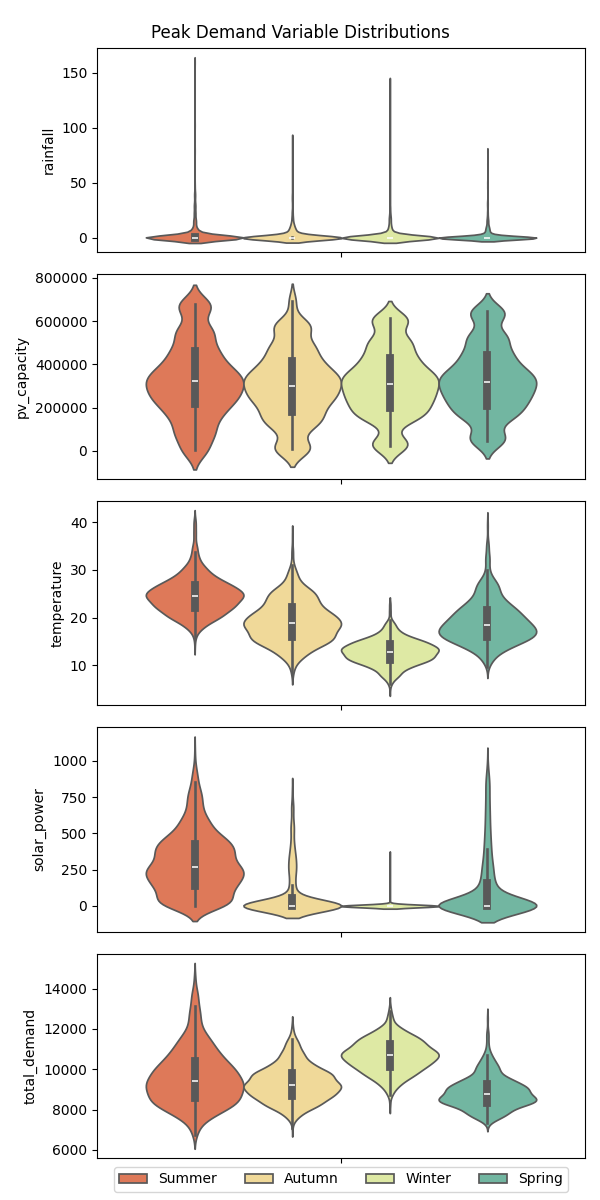
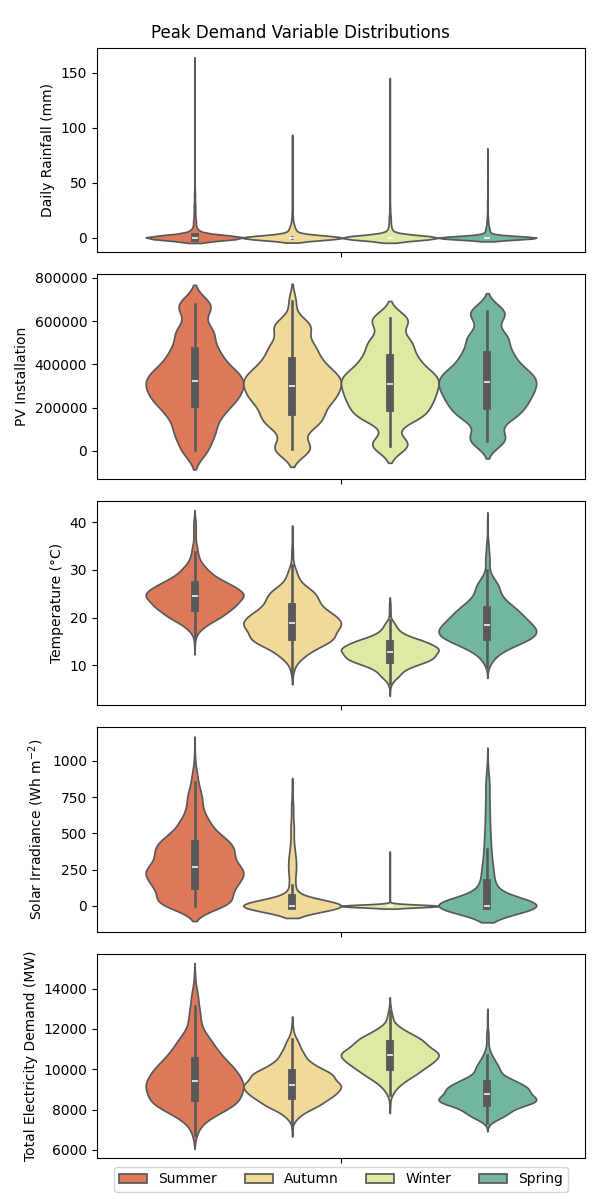
fixed fig axes on remaining plots

diff --git a/python/eda.py b/python/eda.py
@@ -12,7 +12,7 @@ def scatterplot_matrix(df, img_folder, img_name, colour):
     """
     scatterplot matrix of all numerical variables in dataframe
     """
-    var_labels = ['Rainfall', 'PV Installation', 'Temperature', 'Solar Irradiance', 'Total Power']
+    var_labels = ['Rainfall', 'PV Installation', 'Temperature', 'Solar Irradiance', 'Electricity Demand']
     p = sns.pairplot(df, plot_kws={'alpha': 0.6, 's': 10}, hue='season', palette='Spectral')
     p.x_vars = var_labels
     p.y_vars = var_labels
@@ -26,7 +26,7 @@ def corr_matrix (df, peak_df, img_folder):
     """
     correlation matrix of all numerical variables in dataframe
     """
-    var_labels = ['Rainfall', 'PV Installation', 'Temperature', 'Solar Irradiance', 'Total Power']
+    var_labels = ['Rainfall', 'PV Installation', 'Temperature', 'Solar Irradiance', 'Electricity Demand']
     # correlation matrices split by season
     fig, axs = plt.subplots(2, 2, figsize=(12,12))
     for i in range(4):
@@ -93,6 +93,7 @@ def var_distributions(df, peak_df, img_folder):
         sns.violinplot(peak_df, y=col, ax=axs[col_idx], color=vc['all'], hue='season', palette='Spectral')
         if col_idx != 4:
             axs[col_idx].get_legend().remove()
+        axs[col_idx].set_ylabel(total_labels[col])
     plt.suptitle('Peak Demand Variable Distributions')
     plt.tight_layout()
     fig.subplots_adjust(bottom=0.035) 
@@ -226,7 +227,6 @@ def daily_stats(df, peak_df, img_folder):
         img_name = col + '_statistics'
         plt.suptitle('Average Variable Statistics')
         plt.tight_layout()
-        img_name = col + '_statistics'
         plt.savefig(img_folder / img_name)
         plt.close()
 

diff --git a/python/colour_dict.py b/python/colour_dict.py
@@ -8,7 +8,7 @@ demand_cols = {'peak': 'orange', 'all': 'tomato',
                 'var3': 'peru', 'var4': 'sienna', 'var5': 'brown', }
 
 # dictionary for variable axis names when using all total demand data
-var_dict_total = {'rainfall': 'Daily Rainfall (mm)', 'pv_capacity': 'PV Installation', 'temperature': 'Temperature (\u00b0C)', 'solar_power': r'Solar Irradiance (Wh m$^{-2}$)', 'total_demand': 'Total Power (MW)'}
+var_dict_total = {'rainfall': 'Daily Rainfall (mm)', 'pv_capacity': 'PV Installation', 'temperature': 'Temperature (\u00b0C)', 'solar_power': r'Solar Irradiance (Wh m$^{-2}$)', 'total_demand': 'Total Electricity Demand (MW)'}
 
 # dictionary for variable axis names when using conditional peak demand data
-var_dict_peak = {'rainfall': 'Daily Rainfall (mm)', 'pv_capacity': 'PV Installation', 'temperature': 'Temperature (\u00b0C)', 'solar_power': r'Solar Irradiance (Wh m$^{-2}$)', 'total_demand': 'Peak Daily Power (MW)'}
+var_dict_peak = {'rainfall': 'Daily Rainfall (mm)', 'pv_capacity': 'PV Installation', 'temperature': 'Temperature (\u00b0C)', 'solar_power': r'Solar Irradiance (Wh m$^{-2}$)', 'total_demand': 'Peak Electricity Demand (MW)'}
